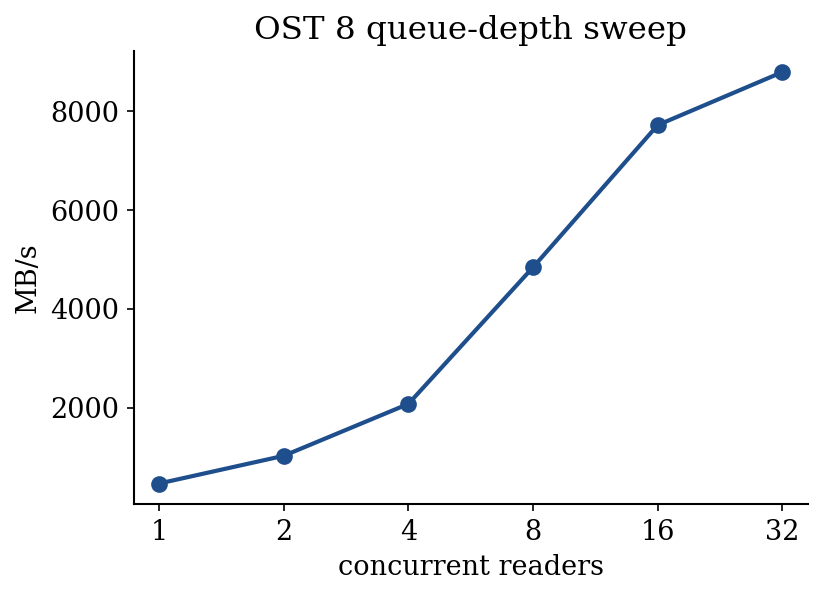
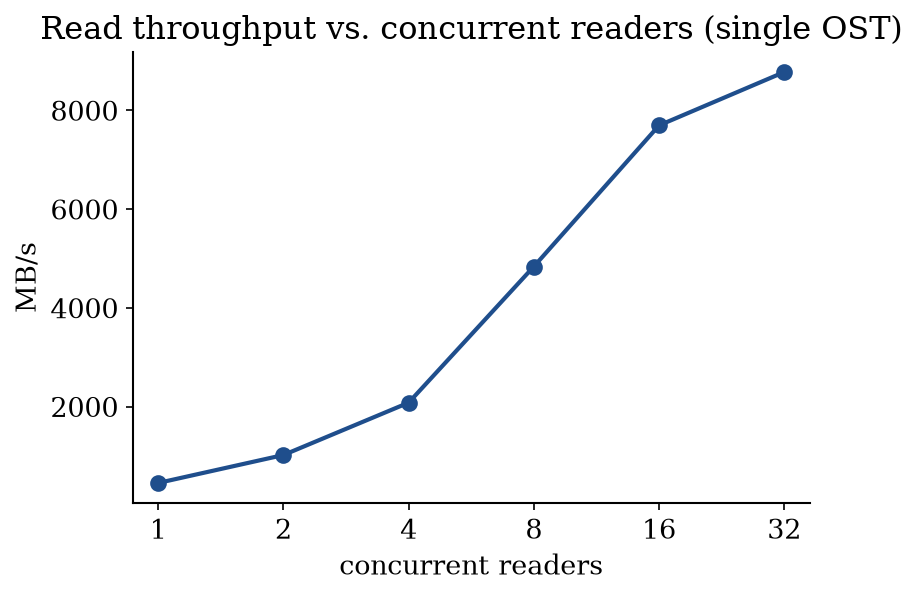
doc: retitle OST queue-depth plot to be generic
Claude-Session: https://claude.ai/code/session_013pbEcEfj6EPMUF7voiTPYF

diff --git a/experiments/parallel-reads-lustre/scripts/plot.py b/experiments/parallel-reads-lustre/scripts/plot.py
@@ -39,7 +39,7 @@ ax.spines["top"].set_visible(False)
 ax.spines["right"].set_visible(False)
 ax.set_xlabel("concurrent readers")
 ax.set_ylabel("MB/s")
-ax.set_title("Parallel reads on a single Lustre file")
+ax.set_title("Read throughput vs. concurrent readers (single OST)")
 fig.tight_layout(pad=0.6)
 fig.savefig(png_path, dpi=150, bbox_inches="tight")
 print(f"wrote {png_path}")
